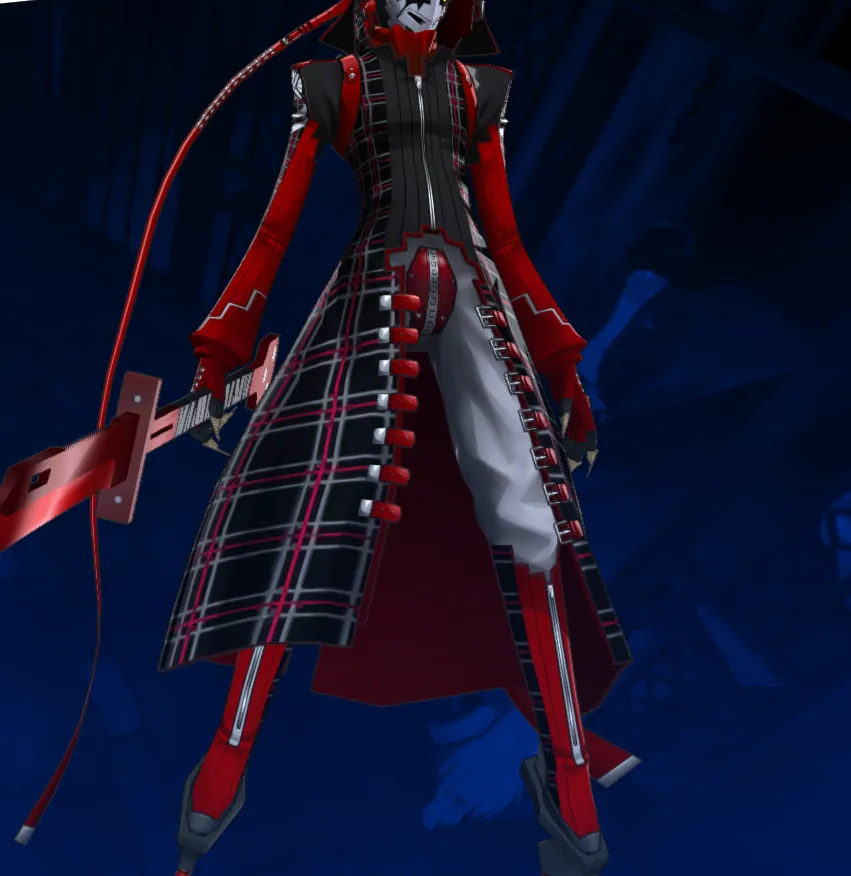
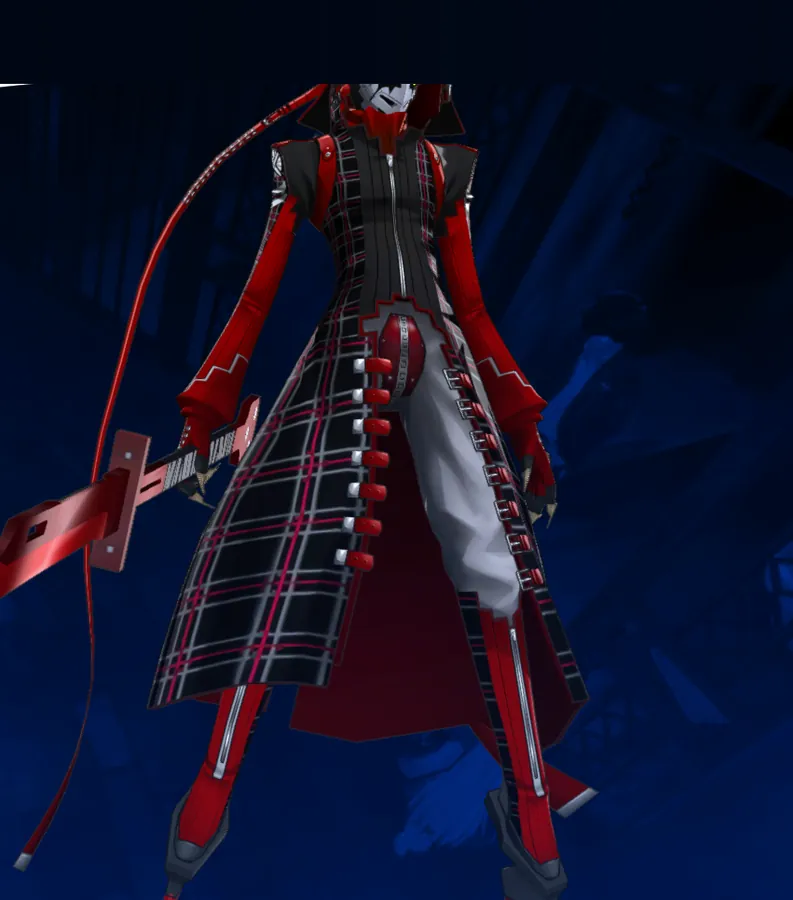
Fotos: encuadres del catálogo y fichas, Loki y Vanadis
- Más aire arriba en las tarjetas de 14 Personas y en 4 fichas
- Magatsu-Izanagi centrado en su tarjeta
- Kurama Tengu con la cabeza entera (franja pintada sin tocar la figura)
- Fotos de Loki y Vanadis

Claude-Session: https://claude.ai/code/session_01TLD9DxtzdAPGjt2ektcgBd

diff --git a/src/games/p5r/services/images.ts b/src/games/p5r/services/images.ts
@@ -24,6 +24,20 @@ export const personaImage = (id: string, view: 'profile' | 'side'): string | und
 /** Encuadre en las tarjetas del catálogo: por defecto 50% 30%; algunas fotos necesitan mostrar más arriba. */
 const CARD_FOCUS: Record<string, string> = {
   'cu-chulainn': '50% 0%',
-  'fuu-ki': '50% 0%', // con aire agregado arriba (recortes.json)
+  'fuu-ki': '50% 0%',
+  'andras': '50% 0%',
+  'hariti': '50% 0%',
+  'izanagi': '50% 0%',
+  'izanagi-picaro': '50% 0%',
+  'jikokuten': '50% 0%',
+  'koumokuten': '50% 0%',
+  'kumbhanda': '50% 0%',
+  'kurama-tengu': '50% 0%',
+  'lilim': '50% 0%',
+  'lilith': '50% 0%',
+  'macabre': '50% 0%',
+  'messiah': '50% 0%',
+  'moloch': '50% 0%',
+  'magatsu-izanagi': '35% 0%',
 };
 export const personaCardFocus = (id: string): string => CARD_FOCUS[id] ?? '50% 30%';

diff --git a/scripts/import-photos/personas.py b/scripts/import-photos/personas.py
@@ -19,7 +19,7 @@ def bright_ratio(im, box):
     px = list(im.crop(box).convert('L').tobytes())
     return sum(1 for v in px if v > 225) / max(len(px), 1)
 
-def paint_band(im):
+def paint_band(im, strict=False):
     """La franja blanca pasa por detrás de la cabeza: se pinta con el azul que hay justo debajo, columna por columna."""
     from tercer_semestre import band_profile, smooth_curve
     w, h = im.size
@@ -35,7 +35,10 @@ def paint_band(im):
     for x in range(w):
         for y in range(min(h, curve[x] + 2)):
             c = px[x, y]
-            if max(c) - min(c) < 28: px[x, y] = fills[x]
+            spread = max(c) - min(c)
+            # estricto: solo el blanco de la franja y el negro de arriba (la figura gris claro se respeta)
+            band = (min(c) > 215 and spread < 14) or max(c) < 22 if strict else spread < 28
+            if band: px[x, y] = fills[x]
     return im
 
 def trim(im, keep_top=False):
@@ -68,6 +71,7 @@ def main(src, game_text, personas_json, party_json, out):
     manual = json.load(open(os.path.join(here, 'recortes.json')))
     # fotos donde la franja del menú tapa la cabeza: se pinta en vez de recortarla
     paint = set(manual.get('_pintar_franja', []))
+    paint_strict = set(manual.get('_pintar_franja_estricta', []))  # figura gris clara delante de la franja
     sys.path.insert(0, here)
     # las que se procesan con tercer_semestre.py (otro fondo) no se tocan acá
     other = {l.split('|')[1].strip() for l in open(os.path.join(here, 'tercer_semestre.txt')) if '|' in l and not l.startswith('#')}
@@ -84,12 +88,19 @@ def main(src, game_text, personas_json, party_json, out):
             if f'{pid}-{side}' in other: continue
             raw = Image.open(os.path.join(src, folder, f)).convert('RGB')
             box = manual.get(f'{pid}-{side}')
-            painted = f'{pid}-{side}' in paint
-            if painted: raw = paint_band(raw)
+            strict = f'{pid}-{side}' in paint_strict
+            painted = f'{pid}-{side}' in paint or strict
+            if painted: raw = paint_band(raw, strict)
             im = raw.crop(tuple(box)) if box else trim(raw, keep_top=painted)
             extra = manual.get('_aire_arriba', {}).get(f'{pid}-{side}')
-            if extra:  # la figura toca el borde de arriba: se agrega fondo (la primera fila estirada) para que respire
-                strip = im.crop((0, 0, im.width, 1)).resize((im.width, extra))
+            if extra:  # la figura toca el borde de arriba: se agrega fondo para que respire
+                # color por columna: mediana de la fila de arriba en las columnas vecinas (así la figura no se estira)
+                row = [im.getpixel((x, 0)) for x in range(im.width)]
+                line = Image.new('RGB', (im.width, 1))
+                for x in range(im.width):
+                    win = row[max(0, x - 150): x + 151]
+                    line.putpixel((x, 0), tuple(sorted(c[i] for c in win)[len(win) // 2] for i in range(3)))
+                strip = line.resize((im.width, extra))
                 tall = Image.new('RGB', (im.width, im.height + extra)); tall.paste(strip, (0, 0)); tall.paste(im, (0, extra)); im = tall
             im.thumbnail((900, 900), Image.LANCZOS)
             im.save(os.path.join(out, f'{pid}-{side}.webp'), 'WEBP', quality=80, method=6)
